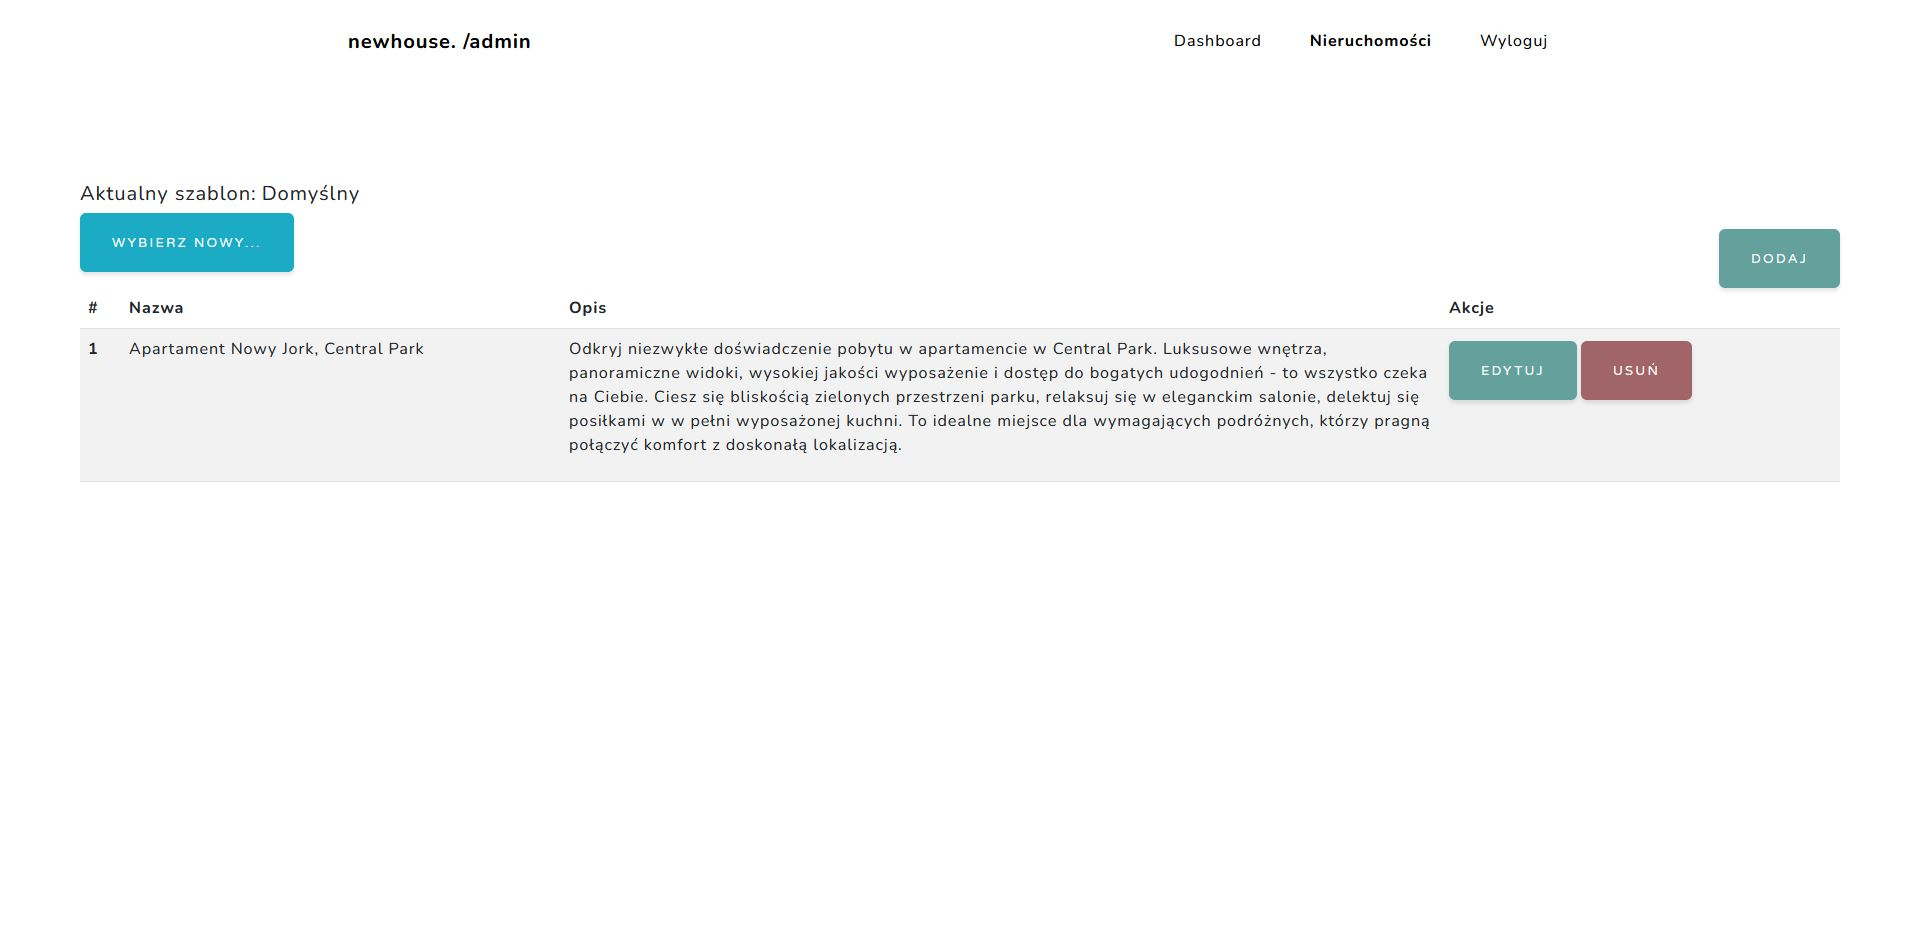
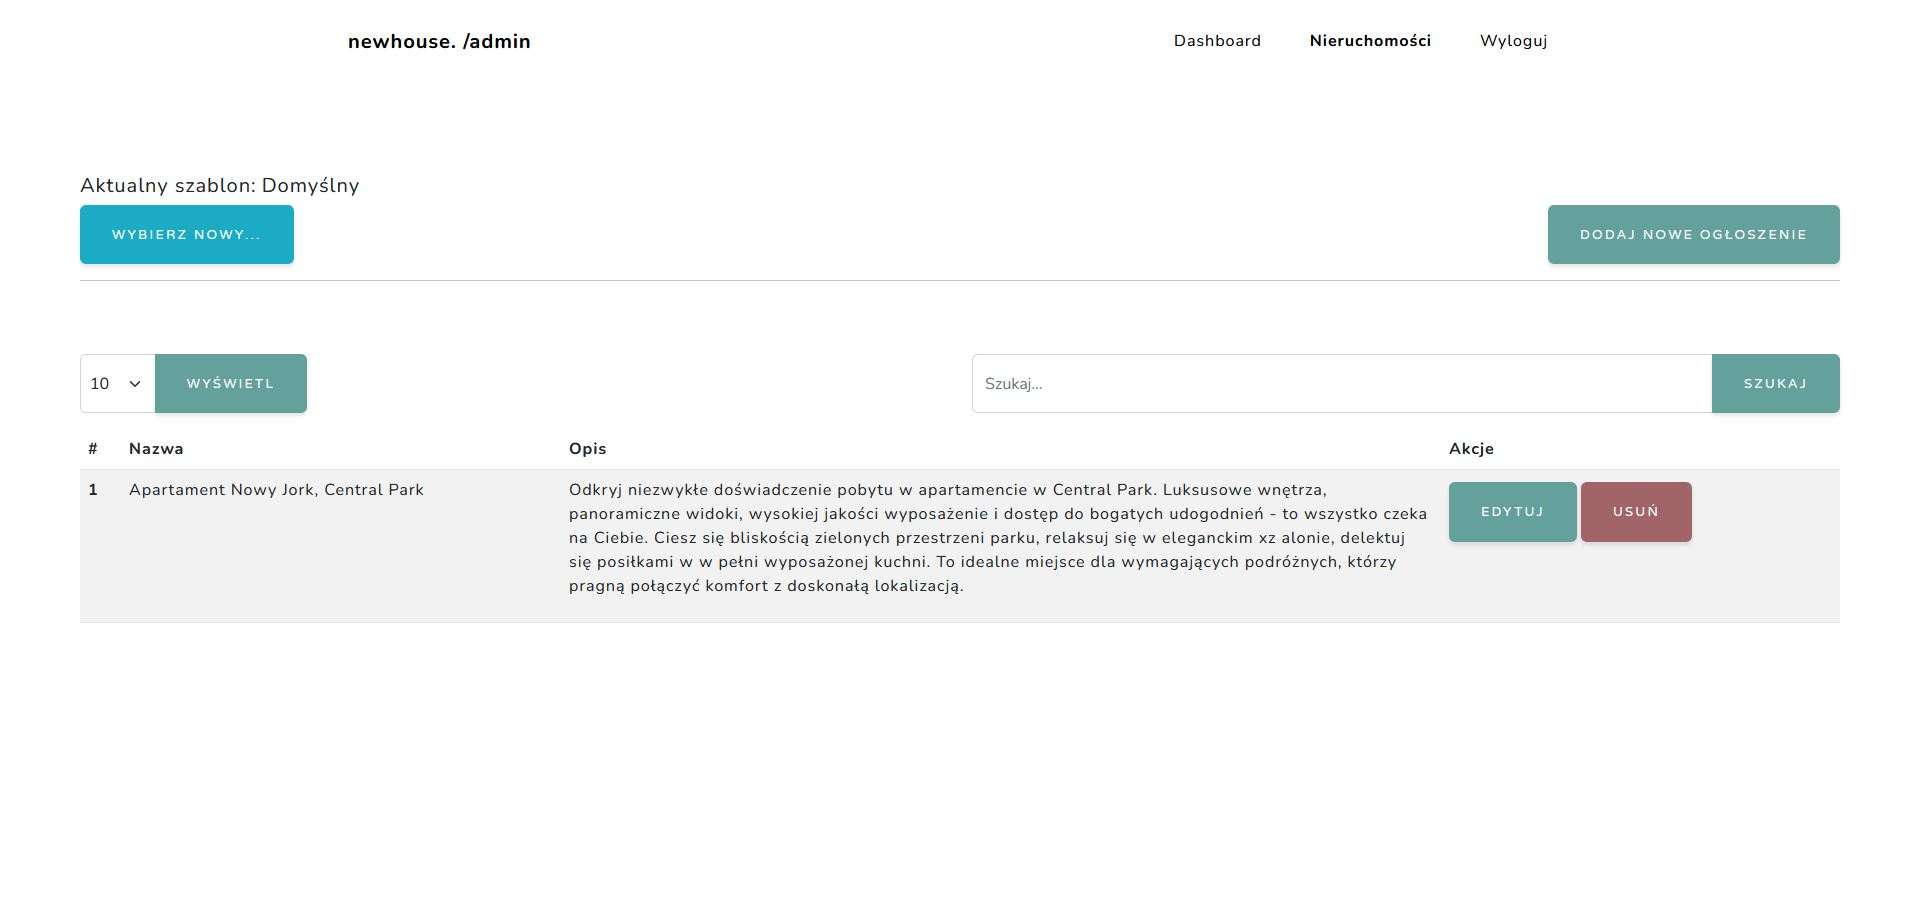
admin panel update

diff --git a/newhouse/app/Http/Controllers/AdminController.php b/newhouse/app/Http/Controllers/AdminController.php
@@ -13,10 +13,19 @@ use Illuminate\Support\Str;
 
 class AdminController extends Controller
 {
-    public function list()
+    public function list(Request $request)
     {
-        $template = immovablesTemplate::first();
-        $immovables = Immovables::paginate(10);
+        $template = ImmovablesTemplate::first();
+        $query = Immovables::query();
+
+        if ($request->has('search')) {
+            $search = $request->input('search');
+            $query->where('name', 'like', "%$search%");
+        }
+
+        $perPage = $request->input('per_page', 10);
+        $immovables = $query->paginate($perPage);
+
         return view('immovables-list', ['immovables' => $immovables, 'template' => $template]);
     }
     public function add()
@@ -36,41 +45,41 @@ class AdminController extends Controller
         $validatedData = $immovables->validateData($data);
         if ($validatedData) {
             $immovables->fill($validatedData);
-            $immovables->name =  $validatedData['name'];
-            $immovables->meta_name =  $validatedData['meta_name'];
-            $immovables->meta_desc =  $validatedData['meta_desc'];
-            $immovables->metarobots =  $validatedData['metarobots'];
+            $immovables->name = $validatedData['name'];
+            $immovables->meta_name = $validatedData['meta_name'];
+            $immovables->meta_desc = $validatedData['meta_desc'];
+            $immovables->metarobots = $validatedData['metarobots'];
             $immovables->slug = Str::slug($validatedData['slug']);
-            $immovables->price =  $validatedData['price'];
-            $immovables->extent =  $validatedData['extent'];
-            $immovables->address =  $validatedData['address'];
-            $immovables->short_desc =  $validatedData['short_desc'];
+            $immovables->price = $validatedData['price'];
+            $immovables->extent = $validatedData['extent'];
+            $immovables->address = $validatedData['address'];
+            $immovables->short_desc = $validatedData['short_desc'];
             if ($request->hasfile('main_photo')) {
                 $file = $request->file('main_photo');
                 $file_extension = $file->getClientOriginalName();
                 $destination_path = public_path() . '/folder/images/';
-                $filename =  time() . '-' . $file_extension;
+                $filename = time() . '-' . $file_extension;
                 $request->file('main_photo')->move($destination_path, $filename);
                 $immovables->main_photo = $filename;
             }
-            $immovables->long_desc =  $validatedData['long_desc'];
-            $immovables->first_head =  $validatedData['first_head'];
-            $immovables->first_desc =  $validatedData['first_desc'];
+            $immovables->long_desc = $validatedData['long_desc'];
+            $immovables->first_head = $validatedData['first_head'];
+            $immovables->first_desc = $validatedData['first_desc'];
             if ($request->hasfile('first_photo')) {
                 $file = $request->file('first_photo');
                 $file_extension = $file->getClientOriginalName();
                 $destination_path = public_path() . '/folder/images/';
-                $filename =  time() . '-' . $file_extension;
+                $filename = time() . '-' . $file_extension;
                 $request->file('first_photo')->move($destination_path, $filename);
                 $immovables->first_photo = $filename;
             }
-            $immovables->second_head =  $validatedData['second_head'];
-            $immovables->second_desc =  $validatedData['name'];
+            $immovables->second_head = $validatedData['second_head'];
+            $immovables->second_desc = $validatedData['name'];
             if ($request->hasfile('second_photo')) {
                 $file = $request->file('second_photo');
                 $file_extension = $file->getClientOriginalName();
                 $destination_path = public_path() . '/folder/images/';
-                $filename =  time() . '-' . $file_extension;
+                $filename = time() . '-' . $file_extension;
                 $request->file('second_photo')->move($destination_path, $filename);
                 $immovables->second_photo = $filename;
             }
@@ -82,7 +91,7 @@ class AdminController extends Controller
                 foreach ($photoGallery as $photo) {
                     $file_extension = $photo->getClientOriginalName();
                     $destination_path = public_path() . '/folder/images/';
-                    $filename =  time() . '-' . $file_extension;
+                    $filename = time() . '-' . $file_extension;
                     $photo->move($destination_path, $filename);
 
                     $galleryFilenames[] = $filename;
@@ -105,15 +114,15 @@ class AdminController extends Controller
         $validatedData = $request->validate($immovables->validationRules($immovables));
 
         if ($validatedData) {
-            $immovables->name =  $validatedData['name'];
-            $immovables->meta_name =  $validatedData['meta_name'];
-            $immovables->meta_desc =  $validatedData['meta_desc'];
-            $immovables->metarobots =  $validatedData['metarobots'];
+            $immovables->name = $validatedData['name'];
+            $immovables->meta_name = $validatedData['meta_name'];
+            $immovables->meta_desc = $validatedData['meta_desc'];
+            $immovables->metarobots = $validatedData['metarobots'];
             $immovables->slug = Str::slug($validatedData['slug']);
-            $immovables->price =  $validatedData['price'];
-            $immovables->extent =  $validatedData['extent'];
-            $immovables->address =  $validatedData['address'];
-            $immovables->short_desc =  $validatedData['short_desc'];
+            $immovables->price = $validatedData['price'];
+            $immovables->extent = $validatedData['extent'];
+            $immovables->address = $validatedData['address'];
+            $immovables->short_desc = $validatedData['short_desc'];
             if ($request->hasfile('main_photo')) {
                 $destination = public_path() . '/folder/images/' . $immovables->main_photo;
                 if (File::exists($destination)) {
@@ -122,7 +131,7 @@ class AdminController extends Controller
                 $file = $request->file('main_photo');
                 $file_extension = $file->getClientOriginalName();
                 $destination_path = public_path() . '/folder/images/';
-                $filename =  time() . '-' . $file_extension;
+                $filename = time() . '-' . $file_extension;
                 $request->file('main_photo')->move($destination_path, $filename);
                 $immovables->main_photo = $filename;
             }
@@ -137,7 +146,7 @@ class AdminController extends Controller
                 $file = $request->file('first_photo');
                 $file_extension = $file->getClientOriginalName();
                 $destination_path = public_path() . '/folder/images/';
-                $filename =  time() . '-' . $file_extension;
+                $filename = time() . '-' . $file_extension;
                 $request->file('first_photo')->move($destination_path, $filename);
                 $immovables->first_photo = $filename;
             }
@@ -151,7 +160,7 @@ class AdminController extends Controller
                 $file = $request->file('second_photo');
                 $file_extension = $file->getClientOriginalName();
                 $destination_path = public_path() . '/folder/images/';
-                $filename =  time() . '-' . $file_extension;
+                $filename = time() . '-' . $file_extension;
                 $request->file('second_photo')->move($destination_path, $filename);
                 $immovables->second_photo = $filename;
             }
@@ -159,26 +168,30 @@ class AdminController extends Controller
             if ($request->hasFile('photo_gallery')) {
                 $destination_path = public_path('folder/images/');
                 $galleryFilenames = [];
-
-                if ($immovables->photo_gallery) {
-                    $photoGallery = $immovables->photo_gallery;
-                    foreach ($photoGallery as $photo) {
-                        $destination = $destination_path . $photo;
-                        if (File::exists($destination)) {
-                            File::delete($destination);
-                        }
-                    }
-                }
-
+            
+                // Pobierz istniejące zdjęcia z bazy danych (jeśli istnieją)
+                $existingGallery = $immovables->photo_gallery ?? [];
+            
                 foreach ($request->file('photo_gallery') as $photo) {
                     $file_extension = $photo->getClientOriginalName();
                     $filename = time() . '-' . $file_extension;
                     $photo->move($destination_path, $filename);
-
+            
                     $galleryFilenames[] = $filename;
                 }
-
-                $immovables->photo_gallery = json_encode($galleryFilenames);
+            
+                // Dodaj nowe zdjęcia do istniejącego zbioru
+                $galleryFilenames = array_merge($existingGallery, $galleryFilenames);
+            
+                $immovables->photo_gallery = $galleryFilenames;
+            
+                // Usuń stare zdjęcia, które nie zostały dodane ponownie
+                foreach ($existingGallery as $photo) {
+                    $destination = $destination_path . $photo;
+                    if (!in_array($photo, $galleryFilenames) && File::exists($destination)) {
+                        File::delete($destination);
+                    }
+                }
             }
 
 

diff --git a/newhouse/resources/views/immovables-list.blade.php b/newhouse/resources/views/immovables-list.blade.php
@@ -18,7 +18,7 @@
         @endif
         <div class="row">
             <div class="col">
-                <div class="col-sm-12">
+                <div class="col-sm-12 mt-3">
                     <form action="{{ route('immovables_updateTemplate') }}" method="POST" enctype="multipart/form-data">
                         @csrf
                         <label for="selectedFile" class="h5">Aktualny szablon: </label>
@@ -41,13 +41,37 @@
                     </form>
                 </div>
             </div>
+
             <div class="col">
-                <div class="col-sm-12 mt-5  addbtn">
-                    <a href="{{ url('/admin/nieruchomosci/dodaj') }}" class="btn btn-primary">Dodaj</a>
+                <div class="col-sm-12 mt-5 addbtn">
+                    <a href="{{ url('/admin/nieruchomosci/dodaj') }}" class="btn btn-primary">Dodaj nowe ogłoszenie</a>
                 </div>
             </div>
         </div>
-
+        <hr>
+        <div class="row mt-5 fs-6">
+            <div class="col-sm-12 mt-3 d-flex w-50">
+                <form action="{{ route('immovables_list') }}" method="GET">
+                    <div class="input-group mb-3">
+                        <select name="per_page" class="form-select">
+                            <option value="10" @if ($immovables->perPage() == 10) selected @endif>10</option>
+                            <option value="25" @if ($immovables->perPage() == 25) selected @endif>25</option>
+                            <option value="50" @if ($immovables->perPage() == 50) selected @endif>50</option>
+                            <option value="100" @if ($immovables->perPage() == 100) selected @endif>100</option>
+                        </select>
+                        <button class="btn btn-primary" type="submit">Wyświetl</button>
+                    </div>
+                </form>
+            </div>
+            <div class="col-sm-12 mt-3 addbtn w-50">
+                <form action="{{ route('immovables_list') }}" method="GET">
+                    <div class="input-group mb-3">
+                        <input type="text" name="search" class="form-control" placeholder="Szukaj...">
+                        <button class="btn btn-primary" type="submit">Szukaj</button>
+                    </div>
+                </form>
+            </div>
+        </div>
         <table class="table table-hover table-striped">
             <thead>
                 <tr>
@@ -58,23 +82,30 @@
                 </tr>
             </thead>
             <tbody>
-                @php $count = 0; @endphp
-                @foreach ($immovables as $item)
-                    @php $count++; @endphp
+                @if ($immovables->isEmpty())
                     <tr>
-                        <th scope="row">{{ $count }}</th>
-                        <td>{{ $item->name }}</td>
-                        <td class="text-break">{!! $item->short_desc !!}</td>
-                        <td><a href="{{ route('immovables_edit', ['id' => $item->id]) }}"
-                                class="btn btn-primary me-1 mt-1">Edytuj
-                                <a href="{{ route('immovables_delete', ['id' => $item->id]) }}" class="btn btn-danger mt-1"
-                                    onclick="return confirm('Czy na pewno chcesz usunąć?')">Usuń</a>
-
+                        <td class="h3 text-center" colspan="4">Brak wyników</td>
                     </tr>
-                @endforeach
+                @else
+                    @php $count = 0; @endphp
+                    @foreach ($immovables as $item)
+                        @php $count++; @endphp
+                        <tr>
+                            <th scope="row">{{ $count }}</th>
+                            <td>{{ $item->name }}</td>
+                            <td class="text-break">{!! $item->short_desc !!}</td>
+                            <td><a href="{{ route('immovables_edit', ['id' => $item->id]) }}"
+                                    class="btn btn-primary me-1 mt-1">Edytuj
+                                    <a href="{{ route('immovables_delete', ['id' => $item->id]) }}"
+                                        class="btn btn-danger mt-1"
+                                        onclick="return confirm('Czy na pewno chcesz usunąć?')">Usuń</a>
+
+                        </tr>
+                    @endforeach
+                @endif
             </tbody>
         </table>
-        {{ $immovables->links('pagination::bootstrap-5') }}
+        {{ $immovables->appends(request()->except('page'))->links('pagination::bootstrap-5') }}
     </div>
     <script>
         function handleFileChange(event) {

diff --git a/newhouse/resources/views/immovables-edit.blade.php b/newhouse/resources/views/immovables-edit.blade.php
@@ -149,7 +149,8 @@
                                 <img class="img-fluid mb-3 mt-2 mb-lg-0" src="{{ asset('/folder/images/' . $photo) }}"
                                     width="100" height="100">
                             </a>
-                            <button class="delete-button ms-1 mt-1 btn btn-danger" type="button" data-photo="{{ $photo }}"
+                            <button class="delete-button ms-1 mt-1 btn btn-danger"
+                                type="button" data-photo="{{ $photo }}"
                                 data-index="{{ $index }}">Usuń</button>
                         </div>
                     @endforeach
@@ -163,22 +164,25 @@
         </form>
     </div>
     <script>
-        document.addEventListener('DOMContentLoaded', function() {
-            var deleteButtons = document.querySelectorAll('.delete-button');
-
-            deleteButtons.forEach(function(button) {
-                button.addEventListener('click', function() {
+        var deleteButtons = document.querySelectorAll('.delete-button');
+    
+        deleteButtons.forEach(function(button) {
+            button.addEventListener('click', function(event) {
+                var confirmResult = confirm('Czy na pewno chcesz usunąć?');
+                if (!confirmResult) {
+                    event.stopPropagation(); // Przerwij propagację zdarzenia
+                } else {
                     var photo = button.dataset.photo;
                     var index = button.dataset.index;
                     var immovableId = {{ $immovable->id }};
-
+    
                     removePhoto(photo, index, immovableId);
-                });
+                }
             });
         });
-
+    
         function removePhoto(photo, index, immovableId) {
-            fetch(`/immovables/${immovableId}/photos/${photo}`, {
+            fetch(`/nieruchomosci/${immovableId}/photos/${photo}`, {
                     method: 'POST',
                     headers: {
                         'X-CSRF-TOKEN': document.querySelector('meta[name="csrf-token"]').getAttribute('content')
@@ -187,14 +191,12 @@
                 .then(response => response.json())
                 .then(data => {
                     if (data.success) {
-
                         var imageContainer = document.getElementById('photo_' + index);
                         if (imageContainer) {
                             imageContainer.parentNode.removeChild(imageContainer);
                         }
-
                     } else {
-
+                        // Obsłuż błąd
                     }
                 })
                 .catch(error => {

diff --git a/newhouse/routes/web.php b/newhouse/routes/web.php
@@ -26,14 +26,17 @@ Route::get('/admin/logout',[AuthController::class,'logout_admin'])->name('logout
 
 
 Route::group(['middleware' => 'admin'], function(){
+
     Route::get('/admin/dashboard',[AuthController::class,'dashboard'])->name('dashboard');
+
     Route::get('/admin/nieruchomosci',[AdminController::class,'list'])->name('immovables_list');
     Route::get('/admin/nieruchomosci/dodaj',[AdminController::class,'add'])->name('immovables_add');
     Route::post('/admin/nieruchomosci/zapisz',[AdminController::class,'insert'])->name('immovables_insert');
     Route::get('/admin/nieruchomosci/edytuj/{id}',[AdminController::class,'edit'])->name('immovables_edit');
     Route::post('/admin/nieruchomosci/zmien/{id}',[AdminController::class,'update'])->name('immovables_update');
     Route::get('/admin/nieruchomosci/usun/{id}',[AdminController::class,'delete'])->name('immovables_delete');
-    Route::post('/immovables/{id}/photos/{photo}',[AdminController::class,'deletePhoto'])->name('immovables_deletePhoto');
+    Route::post('/nieruchomosci/{id}/photos/{photo}',[AdminController::class,'deletePhoto'])->name('immovables_deletePhoto');
+
     Route::post('template.update',[TemplateController::class,'updateTemplate'])->name('immovables_updateTemplate');
     Route::get('template.delete',[TemplateController::class,'deleteTemplate'])->name('immovables_deleteTemplate');
 });

diff --git a/newhouse/app/Http/Controllers/UserController.php b/newhouse/app/Http/Controllers/UserController.php
@@ -1,0 +1,13 @@
+<?php
+
+namespace App\Http\Controllers;
+
+use Illuminate\Http\Request;
+
+class UserController extends Controller
+{
+    function index()
+    {
+        
+    }
+}
